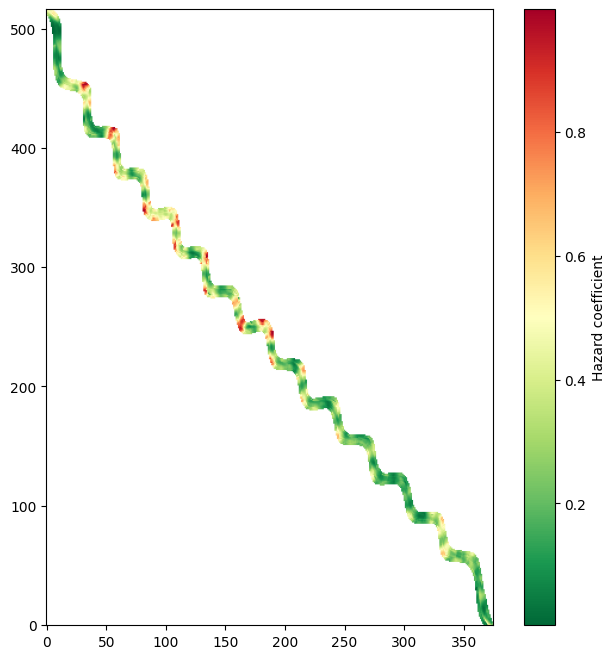
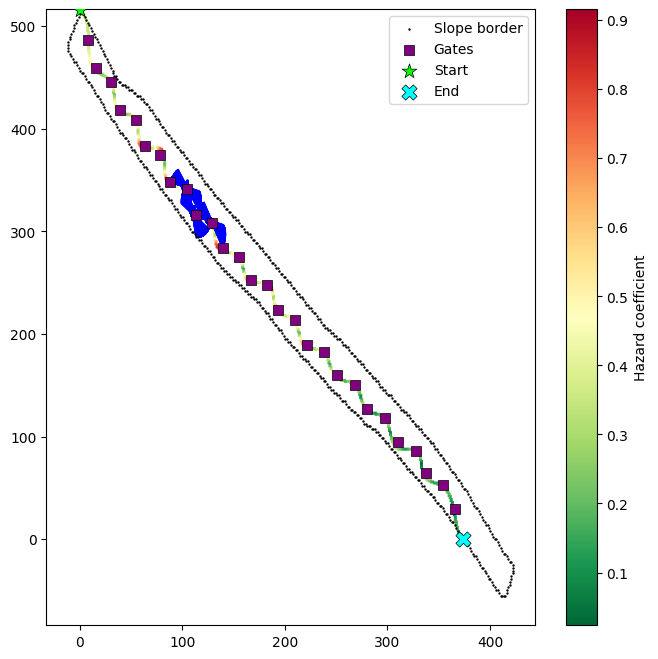
Feat: aggiunti tanti cicli for Co-authored-by: Nunzio Licalzi <nunzio.licalzi9@gmail.com>

diff --git a/main_matrix.py b/main_matrix.py
@@ -9,7 +9,7 @@ from trajectory.trajectoryFromPorte import trajectoryLoader
 
 from skier_model_py.physical_model import esegui_simulazione
 
-from trajectory.tangent_derivative import obtain_inclination
+from trajectory.tangent_derivative import obtain_inclination, obtain_slope_borders
 
 from tqdm.contrib.concurrent import process_map
 from scipy.ndimage import convolve
@@ -30,8 +30,7 @@ def return_inclination(x_utm:np.ndarray, y_utm:np.ndarray, z_traj:np.ndarray, pa
             dx = x_utm[i+1] - x_utm[i]
             dy = y_utm[i+1] - y_utm[i]
             dz = z_traj[i+1] - z_traj[i]
-            alpha = -np.arctan2(dz, np.sqrt(dx**2 + dy**2))
-            alpha_deg[i] = np.degrees(alpha)
+            alpha_deg[i] = np.degrees(-np.arctan2(dz, np.sqrt(dx**2 + dy**2)))
     alpha_deg[N-1] = alpha_deg[N-2]
     alpha_deg[0] = alpha_deg[1] # Riempimento bordo iniziale
 
@@ -45,6 +44,7 @@ def _simulate(df, path_to_las:str):
 
 
 def main(): #To call main paste: python main_matrix.py --gates data/pointsLocationFirstCourse.csv --numTrajectories 200
+    NUMPOINTS = 3_000
     parser = argparse.ArgumentParser(description="A script that accepts keyword-like arguments.")
     #paths for loading and saving data (REQUIRED)
     parser.add_argument("--gates", type=str, help="gates_path", required=True)
@@ -86,7 +86,16 @@ def main(): #To call main paste: python main_matrix.py --gates data/pointsLocati
     listDf, risSim = [], []
     maxX, maxY, minX, minY = -np.inf, -np.inf, np.inf, np.inf
 
-    listDf = [loader.prepareTrajectories(numPoints=3_000, gates=traj) for traj in newTraj]
+    listDf = [loader.prepareTrajectories(numPoints=NUMPOINTS, gates=traj) for traj in newTraj]
+    len_trajectories = []
+    for i in range(len(listDf)):
+        len_traj = 0
+        for j in range(1, len(listDf[i])):
+            dx = listDf[i]["Est [m]"].values[j] - listDf[i]["Est [m]"].values[j-1]
+            dy = listDf[i]["Nord [m]"].values[j] - listDf[i]["Nord [m]"].values[j-1]
+            len_traj += np.sqrt(dx**2 + dy**2)
+        len_trajectories.append(len_traj)
+    
 
     maxX, maxY = max(df["Est [m]"].max()  for df in listDf), max(df["Nord [m]"].max() for df in listDf)
     minX, minY = min(df["Est [m]"].min()  for df in listDf), min(df["Nord [m]"].min() for df in listDf)
@@ -105,7 +114,7 @@ def main(): #To call main paste: python main_matrix.py --gates data/pointsLocati
     
 
     # Post processing of the results
-    weight = 0
+    weight = 0.5
     haz_coeff_sim = [(np.abs(res['F_lat'])-np.min(np.abs(res['F_lat']))) / (np.max(np.abs(res['F_lat'])) - np.min(np.abs(res['F_lat']))) for res in risSim]
     # haz_coeff_incl = [(alpha-np.min(alpha)) / (np.max(alpha)-np.min(alpha)) for alpha in alphas]
 
@@ -159,10 +168,11 @@ def main(): #To call main paste: python main_matrix.py --gates data/pointsLocati
 
     haz_coeff_incl = [(alpha-np.min(alpha)) / (np.max(alpha)-np.min(alpha)) for alpha in alphas_der_sw]
 
+    haz_coeff_incl = [(alpha-np.min(alpha)) / (np.max(alpha)-np.min(alpha)) for alpha in alphas]
     
     # for alpha in alphas_der:
-
-    haz_coeff = weight * haz_coeff_sim + (1-weight) * haz_coeff_incl
+    weight = 0.5
+    haz_coeff = weight * np.array(haz_coeff_sim) + (1-weight) * np.array(haz_coeff_incl)
 
     # Create a river matrix with the cells of 1 meter x 1 meter and fill it with the hazard coefficients (for visualization purposes)
         
@@ -200,7 +210,24 @@ def main(): #To call main paste: python main_matrix.py --gates data/pointsLocati
     riverMatrix = np.where(mask, convolve(riverMatrix * reliabilityMatrix, kernel, mode='constant', cval=0) /  np.where(rel_sum > 0, rel_sum, 1), riverMatrix)
     reliabilityMatrix = np.where(mask, rel_sum, reliabilityMatrix)
 
-    # TODO: aggiungere i gate alla river matrix
+    #CALCOLO TANGENTI VIE DI FUGA
+    tangents = []
+    for i in range(len(risSim)):
+        len_traj = len_trajectories[i]
+        min_p = -5*(NUMPOINTS/len_traj)
+        max_p = 2*(NUMPOINTS/len_traj)
+        haz_coeff = weight * haz_coeff_sim[i] + (1-weight) * haz_coeff_incl[i]
+        lim_var = np.percentile(haz_coeff, 99)
+        idxs = np.argwhere(haz_coeff >= lim_var)
+        for max_idx in idxs:
+
+            #max_idx = np.argmax(haz_coeff)
+            for p in range(int(min_p), int(max_p)+1):
+                idx = max(0, min(len(haz_coeff)-1, max_idx + p))
+                tangent = np.arctan2(listDf[i]["Nord [m]"].values[idx] - listDf[i]["Nord [m]"].values[idx-1], listDf[i]["Est [m]"].values[idx] - listDf[i]["Est [m]"].values[idx-1])
+                tangents.append((listDf[i]["Nord [m]"].values[idx], listDf[i]["Est [m]"].values[idx], tangent))
+    #FINE VIE DI FUGA    
+
     print("Plotting the river matrix...")
     print(f"Max X: {maxX}, Min X: {minX}, Max Y: {maxY}, Min Y: {minY}")
     print(f"Difference x: {maxX - minX}, Difference y: {maxY - minY}")
@@ -214,6 +241,42 @@ def main(): #To call main paste: python main_matrix.py --gates data/pointsLocati
     plt.figure(figsize=(8, 8))
     plt.imshow(np.ma.masked_equal(riverMatrix.T, 0), cmap=cmap, origin='lower')
     plt.colorbar(label='Hazard coefficient')
+
+    # Overlay the first 10 escape tangents on the river matrix.
+    # tangents[i] = (Nord, Est, angle); angle = arctan2(dNord, dEst) in real-world coords.
+    sx = (W - 1) / (maxX - minX + 1e-9)   # Est [m]  -> column (Est) index scale
+    sy = (H - 1) / (maxY - minY + 1e-9)   # Nord [m] -> row (Nord) index scale
+    t = np.array([-20, 20])   # half-length of each drawn tangent, in meters
+    for nord, est, angle in tangents:
+        est_idx  = (est  - minX) * sx
+        nord_idx = (nord - minY) * sy
+        # displayed image is riverMatrix.T: plot-x = Nord index, plot-y = Est index
+        plt.plot(nord_idx + np.sin(angle) * sy * t, est_idx  + np.cos(angle) * sx * t, color='blue', linewidth=1.5)
+        plt.plot(nord_idx, est_idx, marker='o', color='blue', markersize=4)
+
+
+    # Overlay the slope borders recovered from the --path_to_las point cloud.
+    # The .las is already cropped to the slope, so the cloud's outer outline is the border.
+    border_est, border_nord = obtain_slope_borders(args.path_to_las)
+    border_x = (border_nord - minY) * sy   # plot-x = Nord index
+    border_y = (border_est  - minX) * sx   # plot-y = Est index
+    plt.scatter(border_x, border_y, color='black', s=2, marker='.',
+                zorder=4, label='Slope border')
+
+    # Overlay the gates (purple) recovered from the --gates file.
+    # Drop the synthetic fakeInit/fakeFinal rows so only the real gates are shown.
+    real_gates = loader.gates.drop(index=['fakeInit', 'fakeFinal'], errors='ignore')
+    plt.scatter((real_gates["Nord [m]"].values - minY) * sy, (real_gates["Est [m]"].values  - minX) * sx, color='purple', s=50, marker='s',
+                edgecolors='black', linewidths=0.5, zorder=5, label='Gates')
+
+    # Mark the start and end of the trajectory (first/last interpolated points).
+    start, end = listDf[0].iloc[0], listDf[0].iloc[-1]
+    plt.scatter((start["Nord [m]"] - minY) * sy, (start["Est [m]"]  - minX) * sx, color='lime', s=120, marker='*',
+                edgecolors='black', linewidths=0.5, zorder=6, label='Start')
+    plt.scatter((end["Nord [m]"] - minY) * sy, (end["Est [m]"]  - minX) * sx, color='cyan', s=120, marker='X',
+                edgecolors='black', linewidths=0.5, zorder=6, label='End')
+    plt.legend(loc='best')
+
     plt.savefig("river_matrix.png", bbox_inches='tight', format='png')
 
     plt.figure(figsize=(8, 8))
@@ -224,6 +287,7 @@ def main(): #To call main paste: python main_matrix.py --gates data/pointsLocati
     #show results
     plt.show()
     
+
 if __name__ == "__main__":
     SEED = 23
     assert set_seed(SEED) == SEED, "Error setting the seed"

diff --git a/trajectory/tangent_derivative.py b/trajectory/tangent_derivative.py
@@ -39,6 +39,12 @@ import os
 
 import numpy as np
 from scipy.spatial import cKDTree
+from scipy.ndimage import (
+    binary_fill_holes,
+    binary_closing,
+    binary_erosion,
+    label,
+)
 
 import laspy
 
@@ -109,6 +115,66 @@ def load_surface_points(las_path, bbox, margin):
             "Check that the .las and the trajectory share the same CRS."
         )
     return np.concatenate(kept, axis=0)
+
+
+def obtain_slope_borders(las_path, grid_res=2.0):
+    """Recover the outline (borders) of the ski slope from a .las point cloud.
+
+    The .las is assumed to be already cropped to the slope, so the border of the
+    3D reconstruction *is* the slope border. The points are rasterised onto a
+    horizontal occupancy grid (X/Y in UTM32N); the grid is morphologically cleaned
+    (closing + hole filling, keeping the largest connected component) and the
+    one-cell-thick outline of the resulting region is returned as UTM32N
+    coordinates. Rasterising keeps memory bounded by the grid size regardless of
+    how many points the cloud holds.
+
+    Parameters
+    ----------
+    las_path : str
+        Path to the surface .las (X/Y in UTM32N, matching the trajectory CRS).
+    grid_res : float
+        Size [m] of the occupancy-grid cells. Larger values bridge gaps in a
+        sparse cloud at the cost of border precision.
+
+    Returns
+    -------
+    est, nord : (B,) arrays
+        UTM32N easting/northing of the border cells.
+    """
+    with laspy.open(las_path) as reader:
+        hdr = reader.header
+        xmin, ymin, xmax, ymax = hdr.x_min, hdr.y_min, hdr.x_max, hdr.y_max
+
+    nx = int(np.ceil((xmax - xmin) / grid_res)) + 1
+    ny = int(np.ceil((ymax - ymin) / grid_res)) + 1
+    occ = np.zeros((nx, ny), dtype=bool)
+
+    with laspy.open(las_path) as reader:
+        for chunk in reader.chunk_iterator(8_000_000):
+            ix = ((np.asarray(chunk.x) - xmin) / grid_res).astype(np.intp)
+            iy = ((np.asarray(chunk.y) - ymin) / grid_res).astype(np.intp)
+            np.clip(ix, 0, nx - 1, out=ix)
+            np.clip(iy, 0, ny - 1, out=iy)
+            occ[ix, iy] = True
+
+    # Consolidate the rasterised cloud into a solid region.
+    occ = binary_closing(occ, structure=np.ones((3, 3), dtype=bool))
+    occ = binary_fill_holes(occ)
+
+    # Keep only the largest connected component (drop stray specks off the slope).
+    lab, n = label(occ)
+    if n > 1:
+        sizes = np.bincount(lab.ravel())
+        sizes[0] = 0
+        occ = lab == sizes.argmax()
+
+    # One-cell-thick outline = region minus its erosion.
+    boundary = occ & ~binary_erosion(occ)
+
+    bx, by = np.nonzero(boundary)
+    est = xmin + bx * grid_res
+    nord = ymin + by * grid_res
+    return est, nord
 
 
 def plane_gradient(points):
